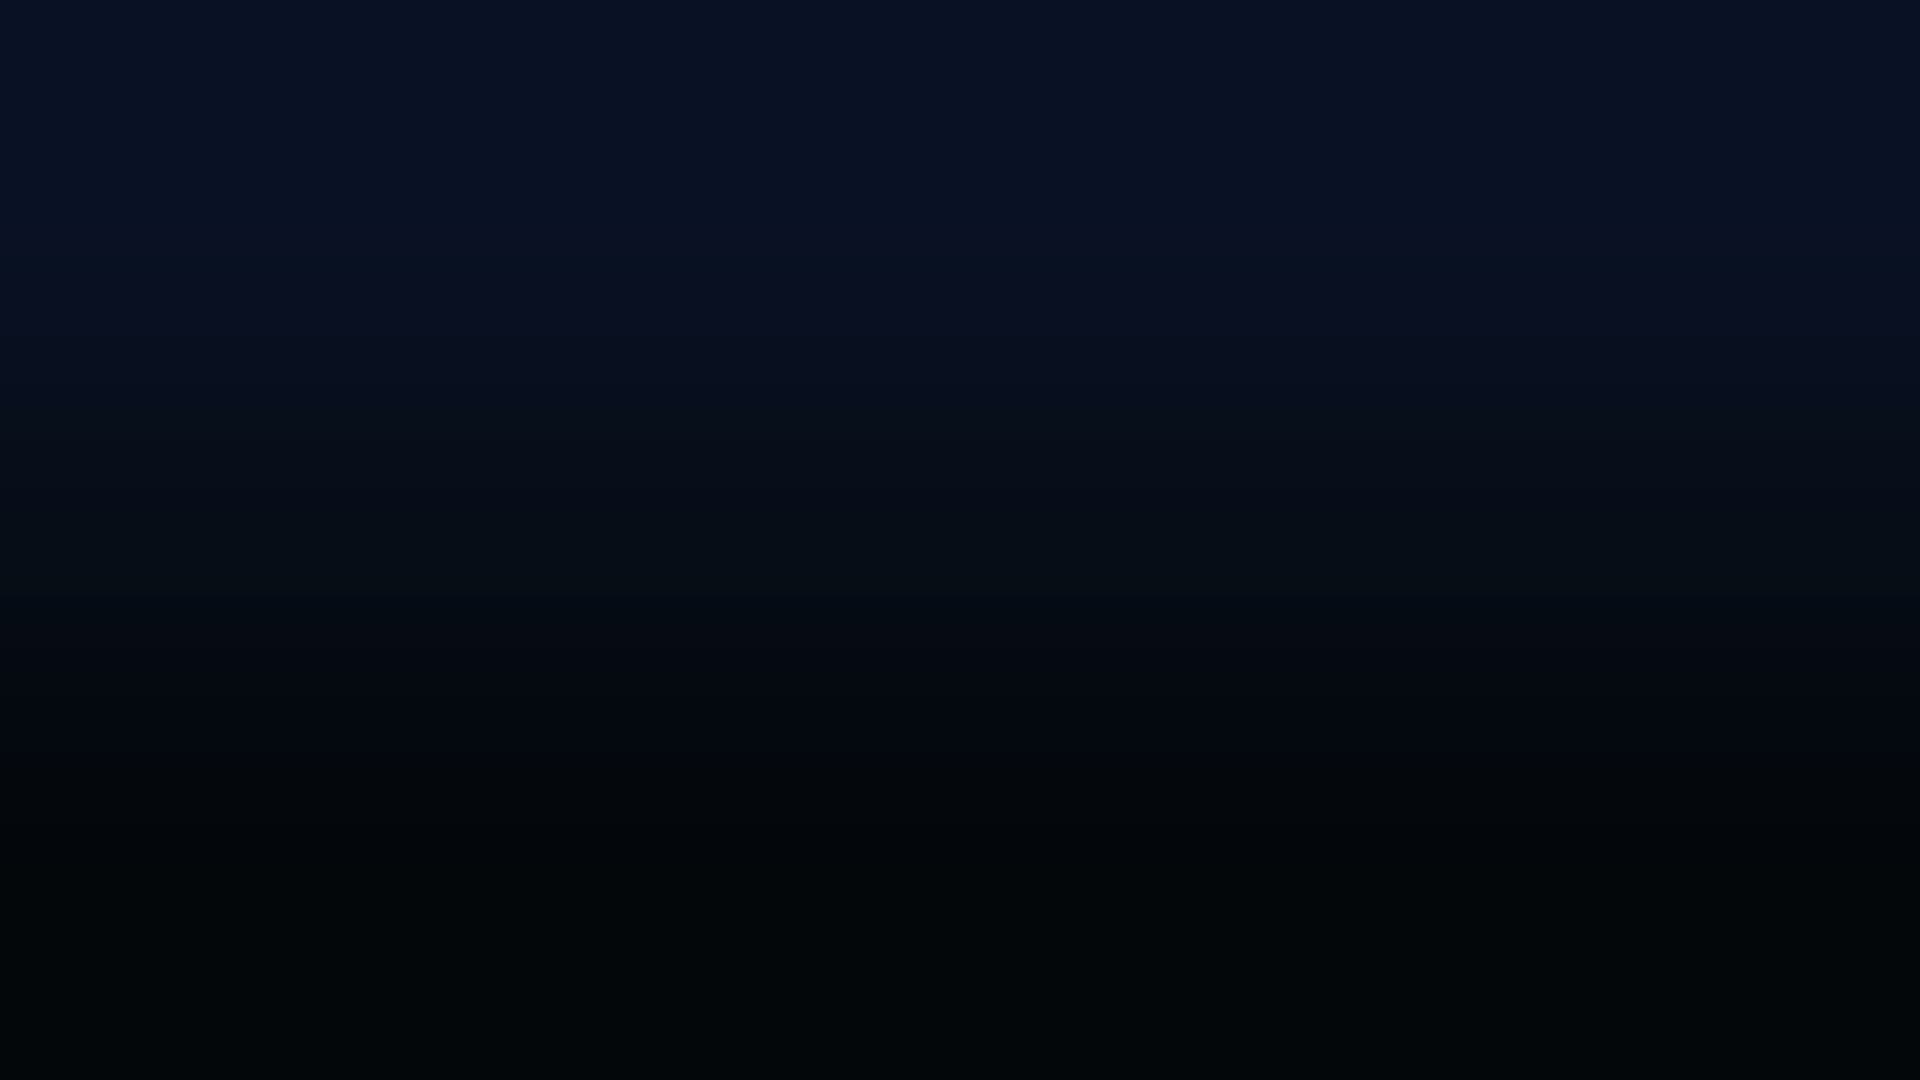
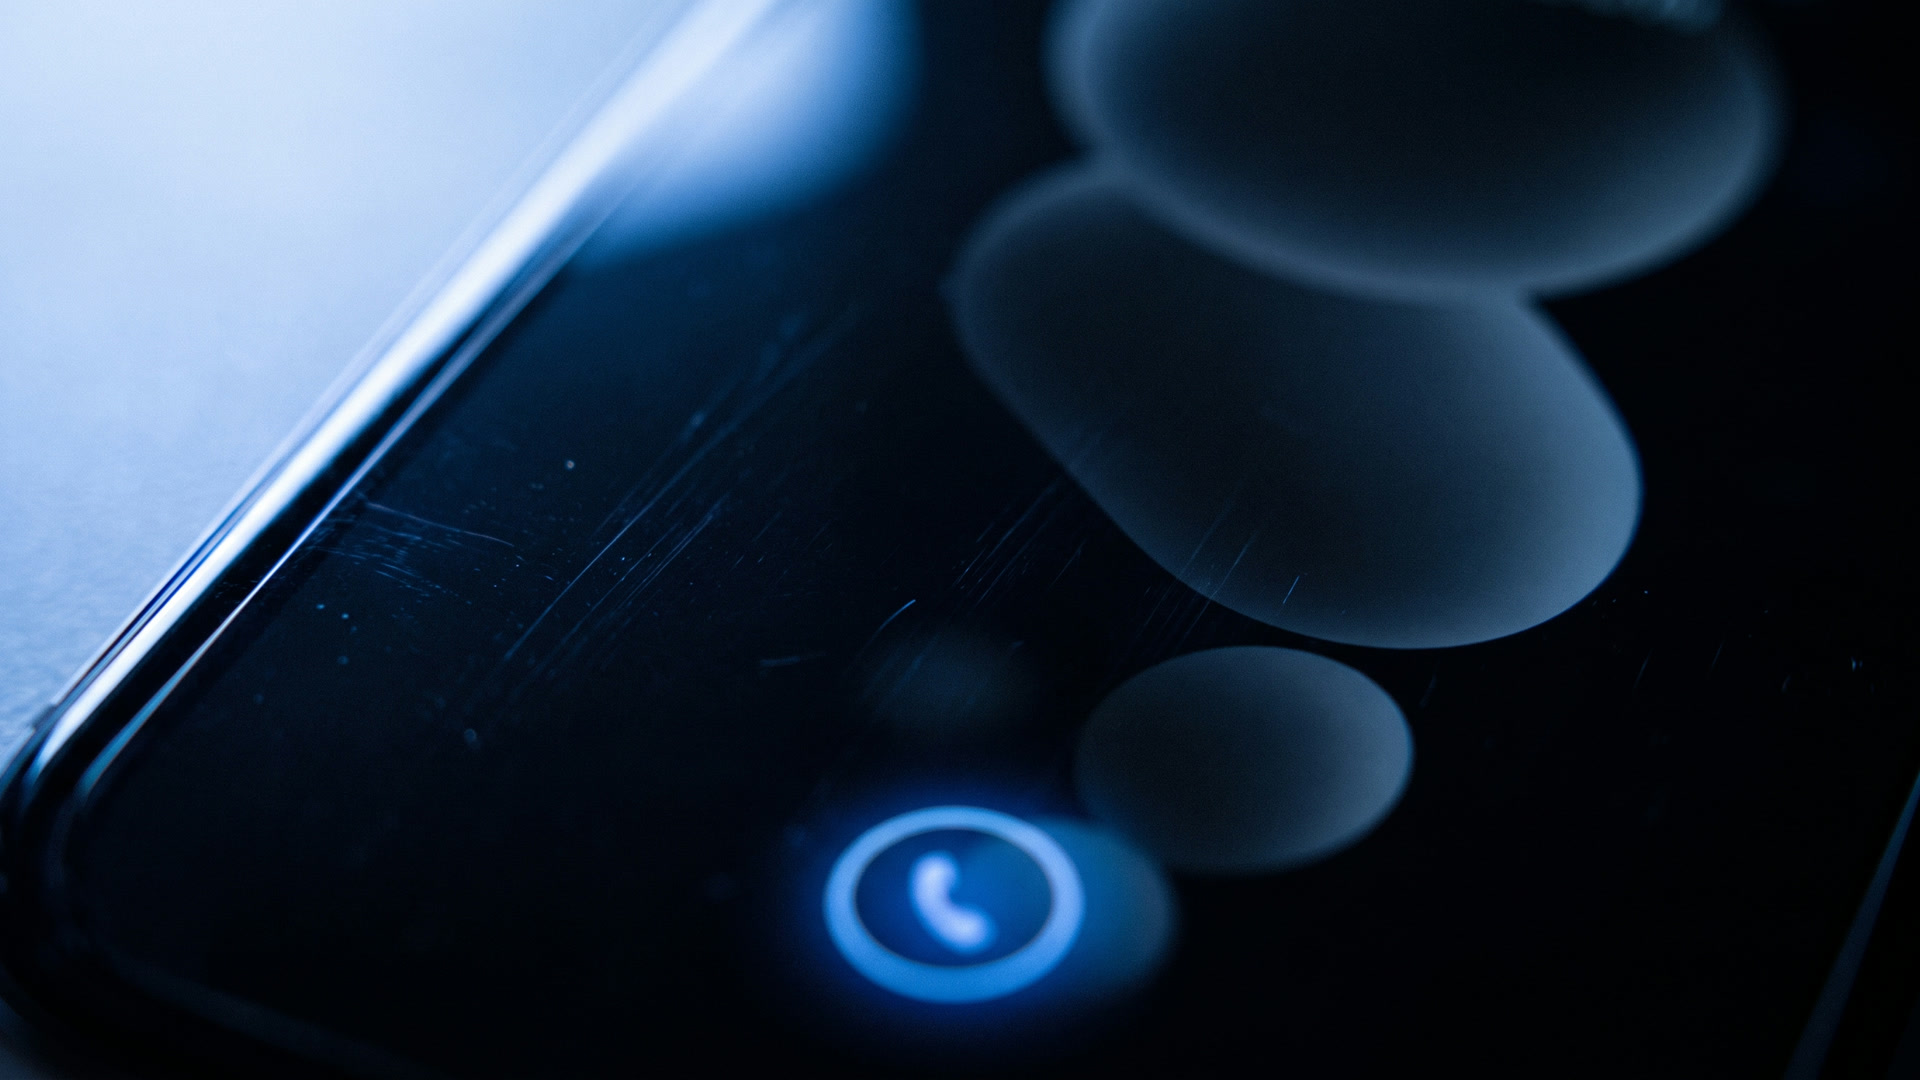
frontend(landing): STREAM/ROOM poster 스틸 적용, 세로 화면 기기 크롭 보정
- Nano Banana Pro 2K 로 만든 두 기기 사이 펄스(stream.jpg) / 화면 매크로 통화 프레임(room.jpg) poster
- 768px 이하에서 히어로 영상·스틸 object-position 62% 50% 로 기기 피사체 유지

diff --git a/frontend/src/styles.css b/frontend/src/styles.css
@@ -6755,6 +6755,8 @@ button.message-media { border: 0; padding: 0; cursor: pointer; font: inherit; }
   .uc-stage-3 h1 { font-size: clamp(34px, 11vw, 56px); }
   .uc-hero-hint { bottom: 84px; }
   .uc-hero-load { bottom: 14px; }
+  /* 세로 화면 크롭: 기기 피사체(프레임 우측)가 잘리지 않게 오른쪽 기준으로 자른다 */
+  .uc-hero-video, .uc-hero-stills img { object-position: 62% 50%; }
   .uc-steps li { grid-template-columns: 34px 1fr; }
   .uc-footer ul:last-child { margin-left: 0; }
 }

diff --git a/docs/logs/2026-09-23.md b/docs/logs/2026-09-23.md
@@ -5,3 +5,4 @@
 - 00:57 시네마틱 랜딩: 스크롤 스크러빙 영상 히어로 + 섹션 7개 스캐폴드, useScrubVideo 훅, LandingScene 제거 (영상은 placeholder, 힉스필드 생성 대기)
 - 01:10 랜딩: 시작 프레임 이미지 생성(nano_banana_pro)→poster 적용, 영상 로드 실패 처리, 미디어 QA/재인코딩 스크립트(scripts/landing-media.sh)
 - 01:19 랜딩: 힉스필드 무료 플랜 영상 모델 게이트 확인(Kling/Seedance/Mini 전부 basic 이상), 스틸 3장(시작·스트림·기기) 생성해 영상 실패 시 스크롤 크로스페이드 폴백 구현, ?reduce dev 미리보기
+- 01:22 랜딩: STREAM/ROOM 섹션 poster 스틸 생성·적용, 세로 화면 object-position 조정
